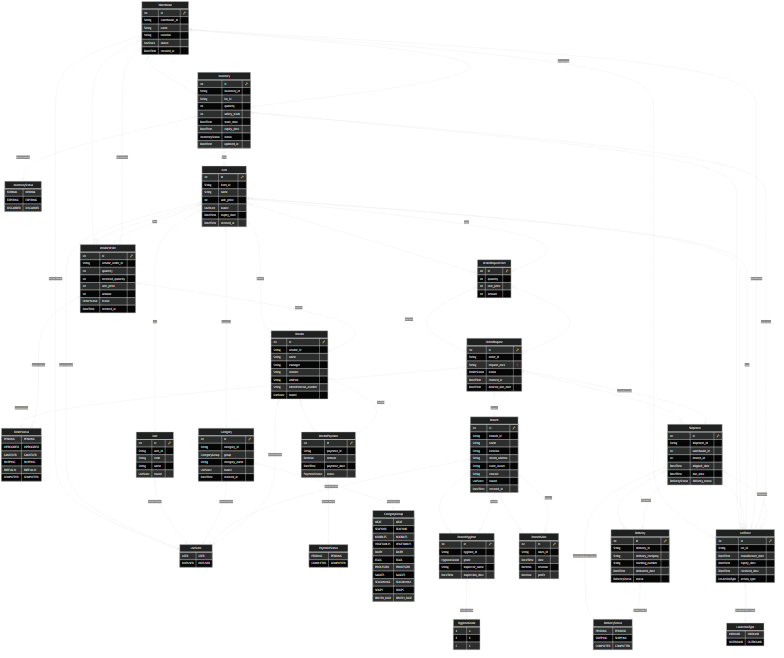
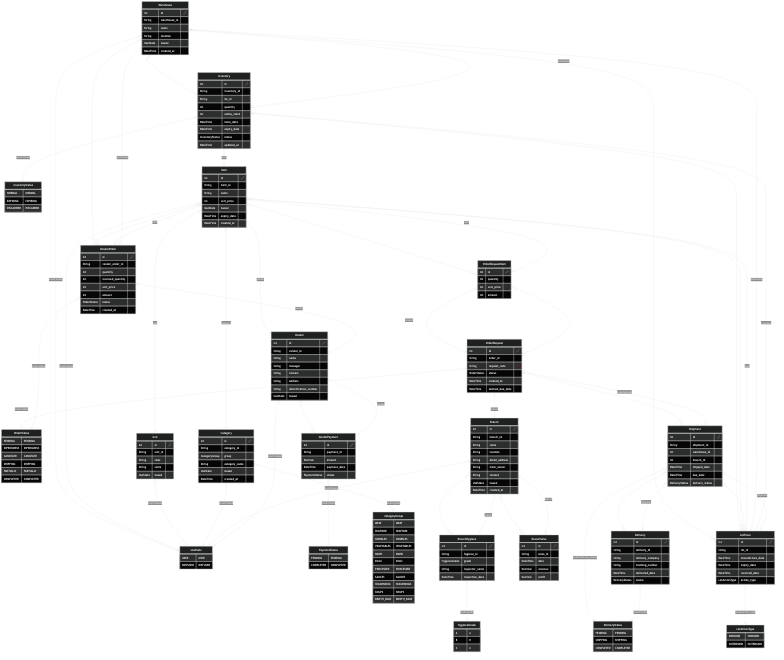
feat(shipment): implement FEFO-based outbound shipping with inventory deduction and lot trace logging

diff --git a/src/shipment/repository/shipment.repository.ts b/src/shipment/repository/shipment.repository.ts
@@ -1,0 +1,178 @@
+// src/shipment/repository/shipment.repository.ts
+import { Injectable, BadRequestException, NotFoundException } from "@nestjs/common";
+import { PrismaService } from "src/database/prisma.service";
+import { ShipmentEntity } from "../entities/shipment.entity";
+import { CreateShipmentDto } from "../dto/create-shipment.dto";
+import { DeliveryStatus, LotActionType, OrderStatus } from "@prisma/client";
+
+@Injectable()
+export class ShipmentRepository {
+    constructor(private readonly prisma: PrismaService) { }
+
+    private loadEntity(row: any): ShipmentEntity {
+        return new ShipmentEntity(
+            row.id,
+            row.shipment_id,
+            row.order_id,
+            row.warehouse_id,
+            row.branch_id,
+            row.shipped_date,
+            row.due_date,
+            row.delivery_status,
+        );
+    }
+
+    private async generateShipmentId(branchId: number): Promise<string> {
+        const today = new Date();
+        const yyMMdd = today.toISOString().slice(2, 10).replace(/-/g, "");
+        const prefix = `SH_${branchId}_${yyMMdd}_`;
+
+        const count = await this.prisma.shipment.count({
+            where: { shipment_id: { startsWith: prefix } },
+        });
+
+        const seq = (count + 1).toString().padStart(3, "0");
+        return `${prefix}${seq}`;
+    }
+
+    async createFromOrder(orderId: number, dto: CreateShipmentDto) {
+        return this.prisma.$transaction(async (tx) => {
+            const order = await tx.orderRequest.findUnique({
+                where: { id: orderId },
+                include: { items: true },
+            });
+
+            if (!order) {
+                throw new NotFoundException(`OrderRequest ID ${orderId}를 찾을 수 없습니다.`);
+            }
+
+            if (!order.items || order.items.length === 0) {
+                throw new BadRequestException("해당 수주에는 품목이 없습니다.");
+            }
+
+            const warehouseId = dto.warehouse_id;
+            const branchId = order.branch_id;
+
+            const shipmentId = await this.generateShipmentId(branchId);
+
+            const now = new Date();
+
+            const shipmentRow = await tx.shipment.create({
+                data: {
+                    shipment_id: shipmentId,
+                    order_id: order.id,
+                    warehouse_id: warehouseId,
+                    branch_id: branchId,
+                    shipped_date: now,
+                    due_date: order.desired_due_date,
+                    delivery_status: DeliveryStatus.PENDING,
+                },
+            });
+
+            const perItemResults: {
+                item_id: number;
+                requested: number;
+                shipped: number;
+                remaining: number;
+            }[] = [];
+
+            for (const item of order.items) {
+                const itemId = item.item_id;
+                let remaining = item.quantity;
+                let shipped = 0;
+
+                const inventories = await tx.inventory.findMany({
+                    where: {
+                        warehouse_id: warehouseId,
+                        item_id: itemId,
+                        quantity: { gt: 0 },
+                    },
+                    orderBy: { expiry_date: "asc" },
+                });
+
+                for (const inv of inventories) {
+                    if (remaining <= 0) break;
+                    if (inv.quantity <= 0) continue;
+
+                    const movable = Math.min(remaining, inv.quantity);
+
+                    await tx.inventory.update({
+                        where: { id: inv.id },
+                        data: { quantity: { decrement: movable } },
+                    });
+
+                    const outboundLotId = `${inv.lot_id}_OUT_${Date.now()}`;
+
+                    await tx.lotTrace.create({
+                        data: {
+                            lot_id: outboundLotId,
+                            item_id: inv.item_id,
+                            warehouse_id: inv.warehouse_id,
+                            inventory_id: inv.id,
+                            manufacture_date: inv.store_date,
+                            expiry_date: inv.expiry_date,
+                            shipment_id: shipmentRow.id,
+                            action_type: LotActionType.OUTBOUND,
+                        },
+                    });
+
+                    remaining -= movable;
+                    shipped += movable;
+                }
+
+                perItemResults.push({
+                    item_id: itemId,
+                    requested: item.quantity,
+                    shipped,
+                    remaining,
+                });
+            }
+
+            const anyShipped = perItemResults.some((r) => r.shipped > 0);
+            const anyRemaining = perItemResults.some((r) => r.remaining > 0);
+
+            let newOrderStatus: OrderStatus = order.status;
+
+            if (!anyShipped) {
+                newOrderStatus = OrderStatus.PENDING;
+            } else if (!anyRemaining) {
+                newOrderStatus = OrderStatus.COMPLETED;
+            } else {
+                newOrderStatus = OrderStatus.PARTIALLY;
+            }
+
+            await tx.orderRequest.update({
+                where: { id: order.id },
+                data: { status: newOrderStatus },
+            });
+
+            const finalShipment = await tx.shipment.update({
+                where: { id: shipmentRow.id },
+                data: {
+                    delivery_status: DeliveryStatus.PENDING,
+                },
+            });
+
+            return {
+                shipment: this.loadEntity(finalShipment),
+                orderStatus: newOrderStatus,
+                items: perItemResults,
+            };
+        });
+    }
+
+    async findAll(): Promise<ShipmentEntity[]> {
+        const rows = await this.prisma.shipment.findMany({
+            orderBy: { shipped_date: "desc" },
+        });
+        return rows.map((r) => this.loadEntity(r));
+    }
+
+    async findById(id: number): Promise<ShipmentEntity> {
+        const row = await this.prisma.shipment.findUnique({ where: { id } });
+        if (!row) {
+            throw new NotFoundException(`Shipment ID ${id}를 찾을 수 없습니다.`);
+        }
+        return this.loadEntity(row);
+    }
+}

diff --git a/src/shipment/shipment.controller.ts b/src/shipment/shipment.controller.ts
@@ -1,0 +1,33 @@
+// src/shipment/shipment.controller.ts
+import {
+  Controller,
+  Post,
+  Get,
+  Param,
+  Body,
+} from "@nestjs/common";
+import { ShipmentService } from "./shipment.service";
+import { CreateShipmentDto } from "./dto/create-shipment.dto";
+
+@Controller("shipment")
+export class ShipmentController {
+  constructor(private readonly service: ShipmentService) {}
+
+  @Post("order/:orderId")
+  async createFromOrder(
+    @Param("orderId") orderId: string,
+    @Body() dto: CreateShipmentDto,
+  ) {
+    return this.service.createFromOrder(+orderId, dto);
+  }
+
+  @Get()
+  async findAll() {
+    return this.service.findAll();
+  }
+
+  @Get(":id")
+  async findById(@Param("id") id: string) {
+    return this.service.findById(+id);
+  }
+}

diff --git a/src/app.module.ts b/src/app.module.ts
@@ -12,12 +12,13 @@ import { VendorOrderModule } from './vendorOrder/vendorOrder.module';
 import { InventoryModule } from './inventory/inventory.module';
 import { BranchRequestModule } from './branch-request/branch-request.module';
 import { LotTraceModule } from './lot/lot.module';
+import { ShipmentModule } from './shipment/shipment.moudule';
 
 @Module({
   imports: [ PrismaModule, VendorModule, CategoryModule,
     UnitModule, ItemModule, WarehouseModule, BranchModule,
     VendorOrderModule, InventoryModule, BranchRequestModule,
-    LotTraceModule,
+    LotTraceModule, ShipmentModule,
   ],
   controllers: [AppController],
   providers: [AppService],

diff --git a/src/shipment/shipment.service.ts b/src/shipment/shipment.service.ts
@@ -1,0 +1,21 @@
+// src/shipment/shipment.service.ts
+import { Injectable } from "@nestjs/common";
+import { ShipmentRepository } from "./repository/shipment.repository";
+import { CreateShipmentDto } from "./dto/create-shipment.dto";
+
+@Injectable()
+export class ShipmentService {
+  constructor(private readonly repo: ShipmentRepository) {}
+
+  async createFromOrder(orderId: number, dto: CreateShipmentDto) {
+    return this.repo.createFromOrder(orderId, dto);
+  }
+
+  async findAll() {
+    return this.repo.findAll();
+  }
+
+  async findById(id: number) {
+    return this.repo.findById(id);
+  }
+}

diff --git a/src/shipment/shipment.moudule.ts b/src/shipment/shipment.moudule.ts
@@ -1,0 +1,13 @@
+// src/shipment/shipment.module.ts
+import { Module } from "@nestjs/common";
+import { ShipmentController } from "./shipment.controller";
+import { ShipmentService } from "./shipment.service";
+import { ShipmentRepository } from "./repository/shipment.repository";
+import { PrismaService } from "src/database/prisma.service";
+
+@Module({
+  controllers: [ShipmentController],
+  providers: [ShipmentService, ShipmentRepository, PrismaService],
+  exports: [ShipmentService],
+})
+export class ShipmentModule {}

diff --git a/src/shipment/entities/shipment.entity.ts b/src/shipment/entities/shipment.entity.ts
@@ -1,0 +1,15 @@
+// src/shipment/entities/shipment.entity.ts
+import { DeliveryStatus } from "@prisma/client";
+
+export class ShipmentEntity {
+  constructor(
+    public readonly id: number,
+    public readonly shipment_id: string,
+    public readonly order_id: number,
+    public readonly warehouse_id: number,
+    public readonly branch_id: number,
+    public readonly shipped_date: Date,
+    public readonly due_date: Date,
+    public readonly delivery_status: DeliveryStatus,
+  ) {}
+}

diff --git a/src/shipment/dto/create-shipment.dto.ts b/src/shipment/dto/create-shipment.dto.ts
@@ -1,0 +1,8 @@
+// src/shipment/dto/create-shipment.dto.ts
+import { IsInt, IsNotEmpty } from "class-validator";
+
+export class CreateShipmentDto {
+  @IsNotEmpty()
+  @IsInt()
+  warehouse_id: number;
+}
